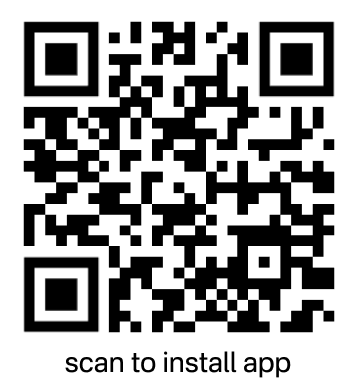
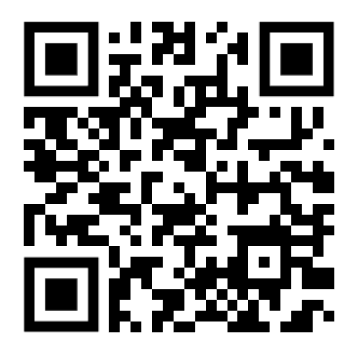
Downloads: Change layout

diff --git a/src/pages/Downloads.module.scss b/src/pages/Downloads.module.scss
@@ -29,6 +29,7 @@
 
 .downloadsContent {
   display: flex;
+  flex-direction: column;
   gap: 10px;
   align-items: flex-start;
   justify-content: center;
@@ -37,128 +38,156 @@
   padding-top: 20px;
 }
 
-.promoHolder {
-  position: relative;
+.appInfo {
+  width: 100%;
   display: flex;
-  flex-direction: column;
-  justify-content: center;
-  align-items: center;
-  margin-bottom: 24px;
-  width: 300px;
-
-  >video {
-    width: 100%;
-    border-radius: 8px;
-  }
-}
-
-.linkHolder {
-  display: flex;
-  flex-direction: column;
-  justify-content: center;
-  align-items: center;
-  gap: 16px;
-  padding-top: 12px;
+  justify-content: space-between;
+  align-items: flex-start;
+  margin-top: 12px;
+  padding-inline: 20px;
 
   >div {
     display: flex;
-    width: 243px;
+    width: 190px;
+    height: 154px;
     flex-direction: column;
-    justify-content: center;
+    justify-content: flex-start;
     align-items: center;
-    padding: 20px 28px;
+    padding-top: 20px;
     border-radius: 12px;
-    background-color: var(--background-input);
+  }
+}
+
+.qrCode {
+  display: flex;
+  flex-direction: column;
+  justify-content: flex-start;
+  align-items: center;
+  gap: 14px;
+  border: 1px solid var(--background-input);
+
+  img {
+    width: 92px;
+    border-radius: 4px;
   }
 
-  .appStore {
-    border-radius: 8px;
+  .qrCaption {
+    color: var(--text-secondary);
+    font-size: 12px;
+    font-weight: 400;
+    line-height: 12px;
+  }
+}
 
 
-    .desktopCTA {
-      color: var(--text-primary);
-      text-align: center;
-      font-size: 20px;
-      font-weight: 600;
-      line-height: 20px;
-    }
+.appStore {
 
-    .buidDetails {
+  background-color: var(--background-input);
+
+  .desktopCTA {
+    color: var(--text-primary);
+    text-align: center;
+    font-size: 20px;
+    font-weight: 600;
+    line-height: 20px;
+  }
+
+  .buidDetails {
+    display: flex;
+    justify-content: center;
+    width: 100%;
+    color: var(--text-tertiary-2);
+    font-size: 12px;
+    font-weight: 400;
+    line-height: 12px;
+    margin-top: 4px;
+
+    >div:first-child {
       display: flex;
-      justify-content: center;
-      width: 100%;
-      color: var(--text-tertiary-2);
-      font-size: 14px;
-      font-weight: 400;
-      line-height: 14px;
-      margin-top: 4px;
-
-      >div:first-child {
-        display: flex;
-        flex-direction: column;
-        align-items: flex-end;
-        margin-right: 8px;
-      }
-      >div:last-child {
-        display: flex;
-        flex-direction: column;
-        align-items: flex-start;
-        text-transform: capitalize;
-      }
+      flex-direction: column;
+      align-items: flex-end;
+      // margin-right: 8px;
     }
-
-    >a {
-      margin-top: 16px;
-      width: 120px;
-      height: 40px;
+    >div:last-child {
+      display: flex;
+      flex-direction: column;
+      align-items: flex-start;
+      text-transform: capitalize;
     }
   }
 
-  .playStore {
-    border-radius: 8px;
-    .playstoreLink {
-      margin-top: 16px;
-    }
+  >a {
+    margin-top: 16px;
+    width: 120px;
+    height: 40px;
+  }
+}
 
-    .apkLink {
-      font-size: 12px;
-      font-weight: 400;
-      line-height: 18px;
-      margin-top: 16px;
-    }
+.playStore {
 
-    .desktopCTA {
-      color: var(--text-primary);
-      text-align: center;
-      font-size: 20px;
-      font-weight: 600;
-      line-height: 20px;
-    }
+  background-color: var(--background-input);
 
-    .buidDetails {
+  .playstoreLink {
+    margin-top: 16px;
+  }
+
+  .apkLink {
+    font-size: 12px;
+    font-weight: 400;
+    line-height: 18px;
+    margin-top: 16px;
+  }
+
+  .desktopCTA {
+    color: var(--text-primary);
+    text-align: center;
+    font-size: 20px;
+    font-weight: 600;
+    line-height: 20px;
+  }
+
+  .buidDetails {
+    display: flex;
+    justify-content: center;
+    width: 100%;
+    color: var(--text-tertiary-2);
+    font-size: 12px;
+    font-weight: 400;
+    line-height: 12px;
+    margin-top: 4px;
+    text-align: center;
+
+    >div:first-child {
       display: flex;
-      justify-content: center;
-      width: 100%;
-      color: var(--text-tertiary-2);
-      font-size: 14px;
-      font-weight: 400;
-      line-height: 14px;
-      margin-top: 4px;
-
-      >div:first-child {
-        display: flex;
-        flex-direction: column;
-        align-items: flex-end;
-        margin-right: 8px;
-      }
-
-      >div:last-child {
-        display: flex;
-        flex-direction: column;
-        align-items: flex-start;
-        text-transform: capitalize;
-      }
+      flex-direction: column;
+      align-items: flex-end;
+      // margin-right: 8px;
     }
+
+    >div:last-child {
+      display: flex;
+      flex-direction: column;
+      align-items: flex-start;
+      text-transform: capitalize;
+    }
+  }
+}
+
+.promoVideo {
+  width: 600px;
+  height: 337px;
+  display: flex;
+  justify-content: center;
+
+  margin-inline: 20px;
+
+  border-radius: 12px;
+  overflow: hidden;
+
+  background: var(--background-header-input);
+  video {
+    width: 100%;
+    height: 100%;
   }
 }
 

diff --git a/src/pages/Downloads.tsx b/src/pages/Downloads.tsx
@@ -5,6 +5,7 @@ import Search from '../components/Search/Search';
 
 import appstoreImg from '../assets/images/appstore_download.svg';
 import playstoreImg from '../assets/images/playstore_download.svg';
+import primalQR from '../assets/images/primal_qr.png';
 
 import gitHubLight from '../assets/icons/github_light.svg';
 import gitHubDark from '../assets/icons/github.svg';
@@ -117,11 +118,19 @@ const Downloads: Component = () => {
 
       <div class={styles.downloadsContent}>
 
-        <div class={styles.promoHolder}>
-          <img src={primalDownloads} />
+        <div class={styles.promoVideo}>
+          <video
+            src='https://m.primal.net/HcyV.mp4'
+            controls={false}
+            muted={true}
+            loop={true}
+            playsinline={true}
+            autoplay={true}
+          />
         </div>
 
-        <div class={styles.linkHolder}>
+        <div class={styles.appInfo}>
+
           <div class={styles.appStore}>
             <div class={styles.desktopCTA}>{intl.formatMessage(t.callToActionIOSTitle)}</div>
 
@@ -144,6 +153,14 @@ const Downloads: Component = () => {
               <img src={appstoreImg} />
             </a>
           </div>
+
+          <div class={styles.qrCode}>
+            <img src={primalQR} width={180} />
+            <div class={styles.qrCaption}>
+            {intl.formatMessage(t.callToActionQRTitle)}
+            </div>
+          </div>
+
           <div class={styles.playStore}>
             <div class={styles.desktopCTA}>{intl.formatMessage(t.callToActionAndroidTitle)}</div>
 

diff --git a/src/translations.ts b/src/translations.ts
@@ -492,13 +492,18 @@ export const downloads = {
   },
   callToActionAndroidTitle: {
     id: 'downloads.ctaAndroidTitle',
-    defaultMessage: 'Primal Android Beta',
+    defaultMessage: 'Primal Android',
     description: 'Title for the Android downloads\' page call-to-action',
   },
   callToActionAndroidDescription: {
     id: 'downloads.ctaAndroidDescription',
     defaultMessage: 'The app features easy onboarding, fast & snappy UI, ability to explore Nostr, and create & manage custom feeds',
     description: 'Description for the Android downloads\' page call-to-action',
+  },
+  callToActionQRTitle: {
+    id: 'downloads.ctaQRTitle',
+    defaultMessage: 'Scan to install app',
+    description: 'Title for the QR code downloads\' page call-to-action',
   },
   appStoreCaption: {
     id: 'downloads.appStoreCaption',
